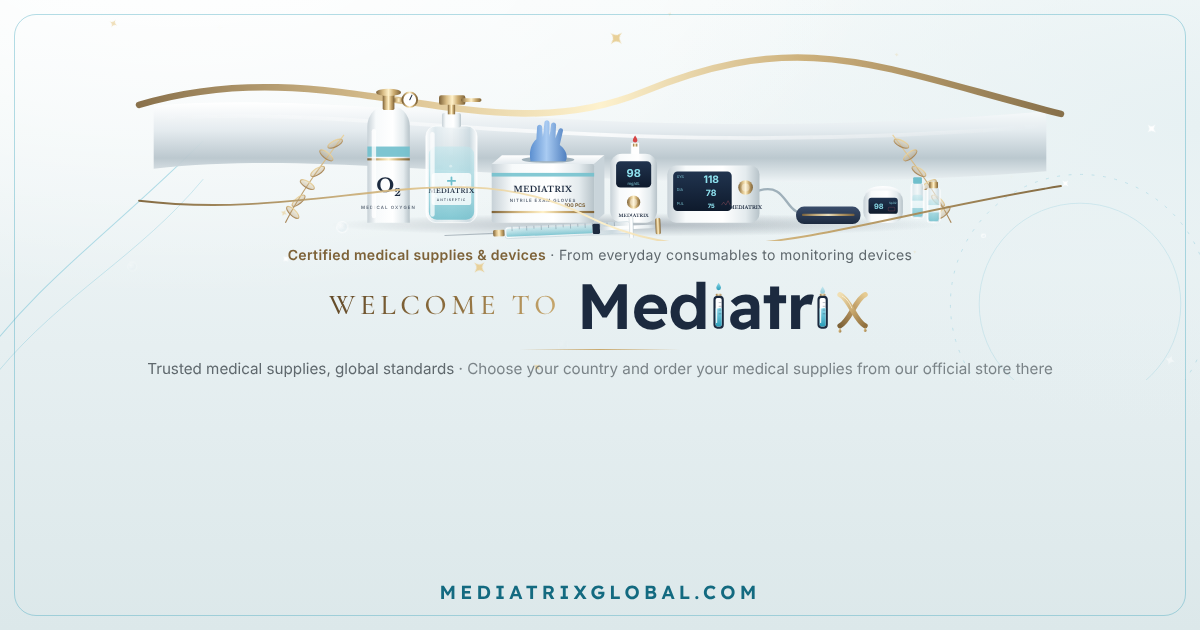
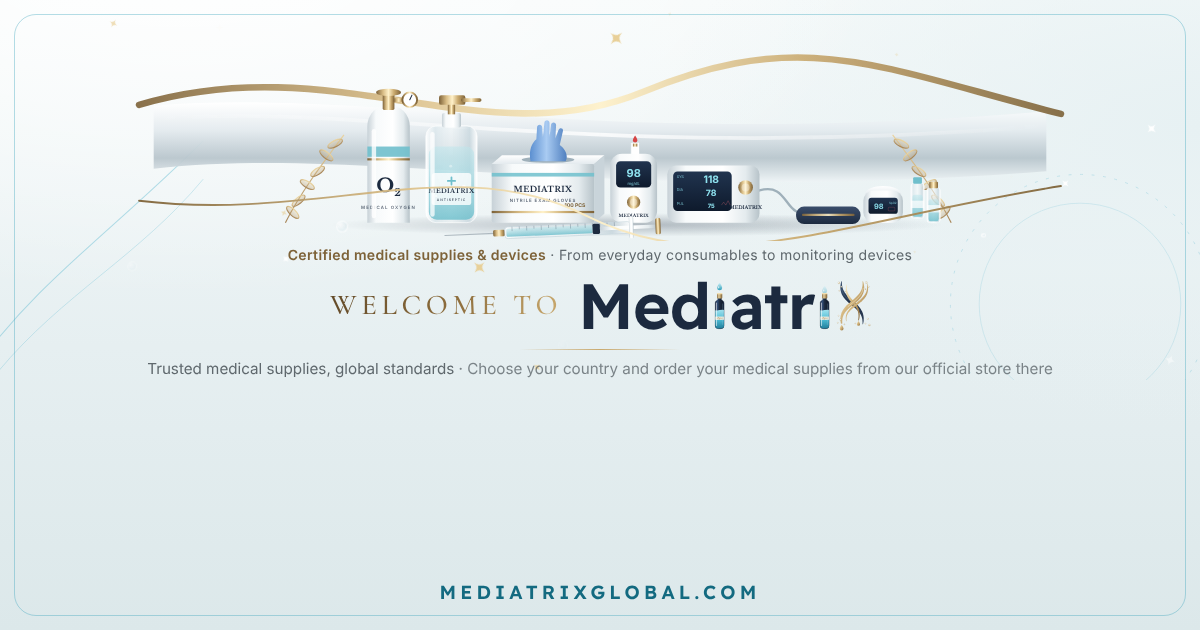
Wordmark: jewellery-style ribbon X (navy + gold S-curves, drops, pearls, light sweep) modelled on the reference; premium navy-glass IV bottle i with crimped gold cap, ECG label and moving fluid
Claude-Session: https://claude.ai/code/session_016o9QNXHEvhKb4pAdzKRwjF

Changed region(s): [[0.4933, 0.4524, 0.74, 0.5429], [0.2775, 0.4524, 0.4008, 0.5127], [0.4317, 0.4524, 0.4625, 0.5127]]

diff --git a/mediatrix/src/components/art/Wordmark.tsx b/mediatrix/src/components/art/Wordmark.tsx
@@ -1,80 +1,129 @@
 // "Mediatrix" wordmark — Readex Pro, deep navy.
-//  - each "i" is a tidy IV bottle drawn on the letter grid (navy outline, aqua fluid, gold cap)
-//    with a falling drop as its dot
-//  - the "x" is two crossing ribbons (gold over silver) with pearls and gold drops,
-//    or a single gold ribbon when `simpleX` is set (small sizes)
+//  - each "i" is a premium IV glass bottle (navy glass, icy fluid, crimped gold cap, ECG label)
+//    whose dot is a drop falling into it
+//  - the "x" is a jewellery-style ribbon cross: a navy ribbon and gold ribbons in tall S-curves,
+//    gold drops at the ends and pearls around (pearls hidden at small sizes)
+
+const BOTTLE = "M11 34.5 h8 v2.2 c0 2.4 5.6 3.2 5.6 8 V93 a7 7 0 0 1 -7 7 h-5.2 a7 7 0 0 1 -7 -7 V44.7 c0 -4.8 5.6 -5.6 5.6 -8 z";
 
 function BottleI({ u, delay = 0 }: { u: string; delay?: number }) {
-  // viewBox: 0..100 tall = cap-height (0.73em); baseline at y=100, x-height at y≈28
   return (
-    <svg viewBox="0 0 30 100" className="inline-block h-[0.73em] w-[0.27em] align-baseline" style={{ marginInline: "0.012em" }} aria-hidden="true">
+    <svg viewBox="0 0 30 100" className="inline-block h-[0.73em] w-[0.27em] overflow-visible align-baseline" style={{ marginInline: "0.012em" }} aria-hidden="true">
       <defs>
-        <linearGradient id={`${u}-f`} x1="0" y1="0" x2="0" y2="1">
-          <stop offset="0" stopColor="#8fd8ea" />
+        <linearGradient id={`${u}-gl`} x1="0" x2="1">
+          <stop offset="0" stopColor="#16233a" />
+          <stop offset="0.22" stopColor="#34507a" />
+          <stop offset="0.5" stopColor="#1c2a3f" />
+          <stop offset="0.85" stopColor="#121c2c" />
+          <stop offset="1" stopColor="#2a3d5a" />
+        </linearGradient>
+        <linearGradient id={`${u}-lq`} x1="0" y1="0" x2="0" y2="1">
+          <stop offset="0" stopColor="#a8ecf7" />
+          <stop offset="0.5" stopColor="#4fc3dc" />
+          <stop offset="1" stopColor="#1f7f9c" />
+        </linearGradient>
+        <linearGradient id={`${u}-cap`} x1="0" x2="1">
+          <stop offset="0" stopColor="#8a6c40" />
+          <stop offset="0.35" stopColor="#f1dfb3" />
+          <stop offset="0.55" stopColor="#d9bd86" />
+          <stop offset="1" stopColor="#7d6238" />
+        </linearGradient>
+        <linearGradient id={`${u}-dr`} x1="0" y1="0" x2="0" y2="1">
+          <stop offset="0" stopColor="#d8f5fb" />
           <stop offset="1" stopColor="#2a9db8" />
         </linearGradient>
-        <linearGradient id={`${u}-c`} x1="0" x2="1">
-          <stop offset="0" stopColor="#9a7a4b" />
-          <stop offset="0.5" stopColor="#f1dfb3" />
-          <stop offset="1" stopColor="#a8875a" />
-        </linearGradient>
+        <clipPath id={`${u}-cl`}>
+          <path d={BOTTLE} />
+        </clipPath>
       </defs>
-      {/* the dot: a drop falling into the bottle */}
-      <path d="M15 1.5 C 11.6 7.2, 10 10, 10 12.4 a5 5 0 0 0 10 0 C 20 10, 18.4 7.2, 15 1.5 Z" fill={`url(#${u}-f)`}>
-        <animateTransform attributeName="transform" type="translate" values="0 0;0 0;0 15;0 15" keyTimes="0;0.62;0.82;1" dur="3.4s" begin={`${delay}s`} repeatCount="indefinite" />
-        <animate attributeName="opacity" values="1;1;0;0;1" keyTimes="0;0.62;0.82;0.92;1" dur="3.4s" begin={`${delay}s`} repeatCount="indefinite" />
-      </path>
-      {/* cap */}
-      <rect x="9" y="25" width="12" height="6" rx="1.6" fill={`url(#${u}-c)`} />
-      {/* bottle = the stem of the i, standing on the baseline */}
-      <rect x="6.2" y="31.8" width="17.6" height="65.9" rx="6" fill="#ffffff" stroke="#1c2a3f" strokeWidth="4.6" />
-      <path fill={`url(#${u}-f)`}>
-        <animate
-          attributeName="d"
-          dur="2.8s"
-          repeatCount="indefinite"
-          values="M8.5 56 Q12 54 15 56 T21.5 56 V91 Q21.5 95.4 17.5 95.4 H12.5 Q8.5 95.4 8.5 91 Z;
-                  M8.5 56 Q12 58 15 56 T21.5 56 V91 Q21.5 95.4 17.5 95.4 H12.5 Q8.5 95.4 8.5 91 Z;
-                  M8.5 56 Q12 54 15 56 T21.5 56 V91 Q21.5 95.4 17.5 95.4 H12.5 Q8.5 95.4 8.5 91 Z"
-        />
-      </path>
-      <g stroke="#1c2a3f" strokeOpacity="0.45" strokeWidth="1.4" strokeLinecap="round">
-        <path d="M16 44h4M16 52h4M16 60h4M16 68h4" />
+      {/* the dot: a drop that falls onto the cap and is absorbed */}
+      <g>
+        <animateTransform attributeName="transform" type="translate" values="0 0;0 0;0 11;0 11" keyTimes="0;0.62;0.8;1" dur="3.4s" begin={`${delay}s`} repeatCount="indefinite" />
+        <animate attributeName="opacity" values="1;1;0;0;1" keyTimes="0;0.62;0.8;0.92;1" dur="3.4s" begin={`${delay}s`} repeatCount="indefinite" />
+        <path d="M15 1 C 11.4 7, 9.7 10, 9.7 12.6 a5.3 5.3 0 0 0 10.6 0 C 20.3 10, 18.6 7, 15 1 Z" fill={`url(#${u}-dr)`} />
+        <ellipse cx="13" cy="11.5" rx="1.3" ry="2.2" fill="#fff" opacity="0.8" />
       </g>
-      <rect x="9.5" y="36" width="2.4" height="52" rx="1.2" fill="#ffffff" opacity="0.9" />
+      <path d={BOTTLE} fill={`url(#${u}-gl)`} />
+      <g clipPath={`url(#${u}-cl)`}>
+        <path fill={`url(#${u}-lq)`} opacity="0.95">
+          <animate attributeName="d" dur="2.8s" repeatCount="indefinite" values="M4 60 Q 9.5 57.6 15 60 T 26 60 V101 H4 Z;M4 60 Q 9.5 62.4 15 60 T 26 60 V101 H4 Z;M4 60 Q 9.5 57.6 15 60 T 26 60 V101 H4 Z" />
+        </path>
+        <rect x="4" y="74" width="22" height="7" fill="#f6efe0" opacity="0.96" />
+        <path d="M8 77.6 h3.2 l1.2 -2.2 l1.8 4.6 l1.4 -3.6 l.9 1.2 h5" fill="none" stroke="#a8875a" strokeWidth="0.9" strokeLinejoin="round" />
+        <rect x="7.1" y="44" width="2.3" height="50" rx="1.15" fill="#fff" opacity="0.55" />
+        <rect x="21.2" y="46" width="0.9" height="46" rx="0.45" fill="#9fd0e3" opacity="0.5" />
+      </g>
+      <path d={BOTTLE} fill="none" stroke="#0e1828" strokeOpacity="0.6" strokeWidth="0.7" />
+      <rect x="9.4" y="25" width="11.2" height="10.2" rx="1.6" fill={`url(#${u}-cap)`} />
+      <path d="M11.4 26.4v7.4M13.4 26.4v7.4M15.4 26.4v7.4M17.4 26.4v7.4M19.2 26.4v7.4" stroke="#7d6238" strokeOpacity="0.55" strokeWidth="0.6" />
+      <rect x="9" y="23.4" width="12" height="2.6" rx="1.3" fill="#f1dfb3" />
     </svg>
   );
 }
 
-/** The "x": two gold ribbon strokes with a gentle S-curve crossing at the centre, a drop at each lower end. */
-function RibbonX({ u }: { u: string; simple?: boolean }) {
-  const a = "M16 8 C 42 20, 58 80, 84 92";
-  const b = "M84 8 C 58 20, 42 80, 16 92";
+const X_NAVY = "M12.4 3.9 L11.6 6.4 L10.9 9.0 L10.5 11.4 L10.1 13.8 L9.9 16.2 L9.7 18.5 L9.7 20.8 L9.8 23.1 L10.1 25.3 L10.4 27.4 L10.9 29.5 L11.4 31.6 L12.0 33.6 L12.8 35.6 L13.6 37.5 L14.5 39.4 L15.5 41.2 L16.6 43.0 L17.7 44.7 L18.9 46.3 L20.2 47.9 L21.5 49.5 L22.8 51.0 L24.2 52.5 L25.7 53.9 L27.1 55.3 L28.6 56.7 L30.1 58.0 L31.6 59.3 L33.1 60.6 L34.6 61.9 L36.1 63.1 L37.6 64.3 L39.1 65.6 L40.6 66.8 L42.1 68.0 L43.6 69.2 L45.0 70.4 L46.5 71.6 L47.8 72.8 L49.2 74.0 L50.5 75.2 L51.8 76.5 L53.1 77.8 L54.3 79.1 L55.5 80.4 L56.7 81.7 L57.7 83.1 L58.8 84.5 L59.8 86.0 L60.7 87.5 L61.6 89.1 L62.4 90.7 L63.2 92.4 L63.9 94.1 L64.5 96.0 L65.1 97.9 L65.5 99.9 L65.9 102.0 L66.2 104.2 L66.4 106.5 L66.5 108.8 L66.5 111.3 L66.5 113.9 L67.5 114.1 L68.2 111.5 L68.7 109.0 L69.1 106.5 L69.3 104.1 L69.4 101.8 L69.5 99.5 L69.4 97.2 L69.2 95.0 L68.9 92.9 L68.5 90.7 L68.0 88.7 L67.4 86.6 L66.7 84.7 L65.9 82.7 L65.1 80.9 L64.2 79.0 L63.2 77.2 L62.1 75.5 L61.0 73.8 L59.8 72.1 L58.6 70.5 L57.3 69.0 L56.0 67.4 L54.6 65.9 L53.2 64.4 L51.8 63.0 L50.4 61.6 L49.0 60.2 L47.5 58.9 L46.0 57.5 L44.6 56.2 L43.1 54.9 L41.7 53.6 L40.2 52.3 L38.8 51.1 L37.4 49.8 L36.0 48.5 L34.6 47.3 L33.2 46.0 L31.9 44.8 L30.6 43.5 L29.3 42.3 L28.1 41.0 L26.9 39.8 L25.7 38.5 L24.6 37.2 L23.5 35.8 L22.4 34.5 L21.4 33.1 L20.5 31.7 L19.5 30.2 L18.7 28.7 L17.9 27.1 L17.1 25.5 L16.4 23.7 L15.8 21.9 L15.2 20.1 L14.7 18.1 L14.3 16.0 L14.0 13.9 L13.8 11.6 L13.7 9.2 L13.6 6.7 L13.6 4.1 Z";
+const X_NAVY_HI = "M13.5 25.7 L14.2 28.0 L15.1 30.2 L16.0 32.3 L17.0 34.4 L18.2 36.4 L19.4 38.4 L20.7 40.2 L22.1 42.1 L23.6 43.8 L25.1 45.6 L26.7 47.3 L28.3 48.9 L30.0 50.5 L31.7 52.1 L33.5 53.7 L35.3 55.3 L37.1 56.8 L38.9 58.4 L40.7 59.9 L42.5 61.4 L44.3 63.0 L46.1 64.5 L47.8 66.1 L49.5 67.7 L51.2 69.4 L52.9 71.0 L54.5 72.7 L56.0 74.4 L57.5 76.2 L58.9 78.1";
+const X_GOLD_THIN = "M25.6 11.9 L25.0 14.0 L24.5 16.1 L24.1 18.1 L23.8 20.0 L23.6 21.9 L23.5 23.8 L23.4 25.6 L23.5 27.4 L23.6 29.1 L23.7 30.8 L24.0 32.4 L24.3 34.0 L24.7 35.6 L25.1 37.2 L25.6 38.6 L26.1 40.1 L26.7 41.5 L27.4 42.9 L28.1 44.2 L28.8 45.6 L29.6 46.8 L30.4 48.1 L31.2 49.3 L32.1 50.5 L33.0 51.6 L33.9 52.8 L34.8 53.9 L35.7 55.0 L36.7 56.1 L37.6 57.1 L38.6 58.2 L39.5 59.2 L40.5 60.3 L41.4 61.3 L42.4 62.3 L43.3 63.3 L44.2 64.4 L45.1 65.4 L45.9 66.5 L46.8 67.5 L47.6 68.6 L48.4 69.7 L49.2 70.8 L49.9 71.9 L50.6 73.1 L51.3 74.3 L52.0 75.5 L52.6 76.7 L53.2 78.0 L53.7 79.3 L54.2 80.7 L54.6 82.1 L55.0 83.5 L55.3 85.1 L55.6 86.6 L55.8 88.3 L56.0 90.0 L56.1 91.7 L56.1 93.5 L56.1 95.4 L55.9 97.4 L55.7 99.5 L55.5 101.6 L55.1 103.8 L56.9 104.2 L57.5 102.0 L58.0 99.8 L58.4 97.7 L58.7 95.7 L58.9 93.7 L59.1 91.8 L59.2 89.9 L59.2 88.0 L59.1 86.3 L59.0 84.5 L58.8 82.8 L58.5 81.2 L58.2 79.6 L57.8 78.0 L57.3 76.5 L56.8 75.0 L56.2 73.5 L55.6 72.1 L55.0 70.7 L54.3 69.4 L53.5 68.1 L52.8 66.8 L52.0 65.5 L51.2 64.3 L50.3 63.1 L49.4 61.9 L48.5 60.8 L47.6 59.7 L46.7 58.5 L45.8 57.4 L44.9 56.4 L44.0 55.3 L43.0 54.2 L42.1 53.2 L41.2 52.1 L40.3 51.1 L39.4 50.0 L38.5 49.0 L37.6 47.9 L36.8 46.9 L35.9 45.8 L35.1 44.7 L34.3 43.6 L33.6 42.5 L32.8 41.4 L32.1 40.3 L31.4 39.1 L30.7 38.0 L30.1 36.7 L29.5 35.5 L29.0 34.2 L28.5 32.9 L28.0 31.5 L27.6 30.0 L27.2 28.6 L26.8 27.0 L26.6 25.4 L26.3 23.7 L26.2 22.0 L26.1 20.1 L26.1 18.2 L26.1 16.3 L26.3 14.2 L26.4 12.1 Z";
+const X_GOLD_OUT = "M77.6 9.1 L77.9 11.6 L78.1 13.9 L78.2 16.2 L78.2 18.4 L78.1 20.5 L77.9 22.5 L77.7 24.5 L77.3 26.3 L76.8 28.1 L76.3 29.9 L75.7 31.5 L75.0 33.1 L74.2 34.7 L73.4 36.2 L72.6 37.7 L71.6 39.1 L70.7 40.5 L69.6 41.8 L68.5 43.1 L67.4 44.4 L66.2 45.7 L65.0 46.9 L63.8 48.2 L62.5 49.4 L61.2 50.6 L59.8 51.8 L58.5 52.9 L57.1 54.1 L55.7 55.2 L54.2 56.4 L52.8 57.5 L51.3 58.7 L49.9 59.8 L48.4 61.0 L46.9 62.1 L45.5 63.3 L44.1 64.5 L42.6 65.7 L41.2 66.8 L39.8 68.0 L38.5 69.3 L37.1 70.5 L35.8 71.8 L34.6 73.1 L33.4 74.4 L32.2 75.7 L31.1 77.1 L30.0 78.5 L29.0 79.9 L28.1 81.4 L27.3 82.9 L26.5 84.5 L25.8 86.0 L25.2 87.7 L24.6 89.3 L24.2 91.0 L23.9 92.8 L23.7 94.5 L23.5 96.4 L23.5 98.2 L23.6 100.1 L23.8 102.1 L24.1 104.0 L24.6 106.1 L25.4 105.9 L25.2 103.9 L25.2 102.0 L25.2 100.1 L25.3 98.3 L25.5 96.5 L25.8 94.9 L26.2 93.3 L26.7 91.7 L27.3 90.2 L27.9 88.8 L28.6 87.4 L29.4 86.0 L30.3 84.7 L31.2 83.4 L32.1 82.2 L33.2 81.0 L34.2 79.8 L35.4 78.6 L36.5 77.4 L37.7 76.3 L39.0 75.2 L40.3 74.0 L41.6 72.9 L43.0 71.8 L44.4 70.8 L45.8 69.7 L47.3 68.6 L48.7 67.5 L50.2 66.4 L51.7 65.3 L53.2 64.2 L54.7 63.1 L56.2 61.9 L57.7 60.8 L59.1 59.6 L60.6 58.4 L62.1 57.2 L63.5 56.0 L64.9 54.7 L66.3 53.4 L67.6 52.1 L68.9 50.7 L70.2 49.3 L71.4 47.8 L72.6 46.3 L73.7 44.8 L74.7 43.2 L75.7 41.6 L76.6 39.9 L77.4 38.2 L78.1 36.4 L78.8 34.6 L79.3 32.7 L79.8 30.8 L80.1 28.8 L80.4 26.8 L80.6 24.8 L80.6 22.7 L80.5 20.5 L80.4 18.3 L80.1 16.0 L79.6 13.7 L79.1 11.3 L78.4 8.9 Z";
+const X_GOLD = "M66.4 4.1 L66.5 6.8 L66.6 9.2 L66.5 11.6 L66.4 13.9 L66.2 16.1 L65.8 18.2 L65.4 20.1 L64.9 22.0 L64.3 23.8 L63.7 25.6 L63.0 27.2 L62.2 28.8 L61.4 30.3 L60.5 31.8 L59.6 33.2 L58.6 34.6 L57.5 35.9 L56.5 37.3 L55.4 38.6 L54.2 39.8 L53.0 41.1 L51.8 42.4 L50.5 43.6 L49.2 44.8 L47.9 46.1 L46.5 47.3 L45.1 48.5 L43.7 49.8 L42.3 51.0 L40.8 52.2 L39.3 53.5 L37.8 54.8 L36.3 56.0 L34.9 57.3 L33.4 58.6 L31.9 59.9 L30.4 61.2 L28.9 62.6 L27.5 64.0 L26.0 65.4 L24.6 66.8 L23.3 68.3 L21.9 69.8 L20.6 71.4 L19.4 72.9 L18.2 74.6 L17.1 76.3 L16.0 78.0 L15.0 79.7 L14.1 81.6 L13.2 83.4 L12.4 85.3 L11.8 87.3 L11.2 89.3 L10.7 91.4 L10.3 93.5 L10.0 95.7 L9.9 97.9 L9.8 100.1 L9.9 102.5 L10.0 104.8 L10.3 107.3 L10.8 109.7 L11.3 112.3 L14.7 111.7 L14.5 109.3 L14.5 106.9 L14.5 104.7 L14.7 102.5 L14.9 100.5 L15.2 98.5 L15.7 96.6 L16.2 94.8 L16.7 93.1 L17.4 91.4 L18.1 89.8 L18.9 88.2 L19.8 86.7 L20.7 85.3 L21.6 83.8 L22.7 82.5 L23.7 81.1 L24.9 79.8 L26.0 78.5 L27.3 77.2 L28.5 76.0 L29.8 74.8 L31.2 73.5 L32.5 72.3 L34.0 71.1 L35.4 69.9 L36.9 68.8 L38.3 67.6 L39.8 66.4 L41.4 65.2 L42.9 64.0 L44.4 62.7 L45.9 61.5 L47.5 60.3 L49.0 59.0 L50.5 57.7 L52.0 56.4 L53.5 55.1 L55.0 53.7 L56.4 52.3 L57.8 50.8 L59.2 49.3 L60.5 47.7 L61.8 46.1 L63.0 44.5 L64.1 42.8 L65.2 41.0 L66.1 39.2 L67.0 37.4 L67.9 35.4 L68.6 33.5 L69.2 31.5 L69.7 29.4 L70.1 27.3 L70.4 25.2 L70.6 23.0 L70.7 20.7 L70.6 18.5 L70.4 16.1 L70.1 13.8 L69.7 11.4 L69.2 8.9 L68.5 6.4 L67.6 3.9 Z";
+const X_GOLD_HI = "M67.9 21.9 L67.5 24.0 L67.0 26.1 L66.4 28.1 L65.7 30.0 L65.0 31.9 L64.1 33.8 L63.2 35.5 L62.1 37.2 L61.1 38.9 L59.9 40.5 L58.7 42.1 L57.4 43.7 L56.1 45.2 L54.7 46.7 L53.3 48.1 L51.8 49.5 L50.3 50.9 L48.7 52.3 L47.2 53.7 L45.6 55.0 L44.0 56.4 L42.4 57.7 L40.8 59.0 L39.2 60.3 L37.6 61.7 L36.0 63.0 L34.4 64.3 L32.8 65.7 L31.3 67.1 L29.7 68.4";
+const PEARLS: [number, number, number][] = [[6,8,2.6],[12,18,1.9],[7,28,1.4],[22,30,1.2],[76,7,2.6],[82,18,1.8],[74,24,1.4],[5,92,1.6],[10,102,2.3],[3,110,1.4],[20,114,1.5],[80,100,2],[74,112,1.6],[84,116,2.4],[48,112,1.3]];
+const DROPS: [number, number, number, number][] = [[13, 115, 1, 0], [56, 107, 0.85, 1.2]];
+
+function RibbonX({ u, simple = false }: { u: string; simple?: boolean }) {
   return (
-    <svg viewBox="0 0 100 100" className="inline-block h-[0.6em] w-[0.58em] overflow-visible align-baseline" style={{ marginInlineStart: "0.03em" }} aria-hidden="true">
+    <svg viewBox="-4 -4 90 130" className="inline-block h-[0.8em] w-[0.55em] overflow-visible align-baseline" style={{ marginInlineStart: "0.02em", marginBottom: "-0.06em" }} aria-hidden="true">
       <defs>
         <linearGradient id={`${u}-g`} x1="0" y1="0" x2="1" y2="1">
-          <stop offset="0" stopColor="#f1dfb3" />
-          <stop offset="0.5" stopColor="#c9a96e" />
-          <stop offset="1" stopColor="#8f6f3e" />
-        </linearGradient>
-        <linearGradient id={`${u}-g2`} x1="1" y1="0" x2="0" y2="1">
-          <stop offset="0" stopColor="#e6cc93" />
-          <stop offset="0.5" stopColor="#b8955f" />
+          <stop offset="0" stopColor="#f6e7c1" />
+          <stop offset="0.4" stopColor="#d9bd86" />
+          <stop offset="0.75" stopColor="#b08e58" />
           <stop offset="1" stopColor="#7d6238" />
         </linearGradient>
+        <linearGradient id={`${u}-n`} x1="0" y1="0" x2="1" y2="1">
+          <stop offset="0" stopColor="#3a5272" />
+          <stop offset="0.5" stopColor="#1c2a3f" />
+          <stop offset="1" stopColor="#2b3d57" />
+        </linearGradient>
+        <radialGradient id={`${u}-p`} cx="0.35" cy="0.35">
+          <stop offset="0" stopColor="#ffffff" />
+          <stop offset="0.6" stopColor="#f3ead6" />
+          <stop offset="1" stopColor="#cdb98f" />
+        </radialGradient>
+        <linearGradient id={`${u}-sh`} x1="0" x2="1">
+          <stop offset="0" stopColor="#fff" stopOpacity="0" />
+          <stop offset="0.5" stopColor="#fff" stopOpacity="0.75" />
+          <stop offset="1" stopColor="#fff" stopOpacity="0" />
+        </linearGradient>
+        <clipPath id={`${u}-c`}>
+          <path d={X_GOLD} />
+          <path d={X_GOLD_OUT} />
+          <path d={X_GOLD_THIN} />
+        </clipPath>
       </defs>
-      <path d={b} fill="none" stroke={`url(#${u}-g2)`} strokeWidth="14" strokeLinecap="round" />
-      <path d={a} fill="none" stroke={`url(#${u}-g)`} strokeWidth="14" strokeLinecap="round" />
-      <path d="M22 12 C 36 19, 44 34, 48 44" fill="none" stroke="#fff6dc" strokeOpacity="0.85" strokeWidth="2.4" strokeLinecap="round" />
-      {[
-        [16, 0],
-        [84, 1.2],
-      ].map(([x, d], i) => (
-        <path key={i} d={`M${x} 96 c-2.6 4.4 -4 6.6 -4 8.4 a4 4 0 0 0 8 0 c0 -1.8 -1.4 -4 -4 -8.4 z`} fill={`url(#${u}-g)`}>
+      <path d={X_NAVY} fill={`url(#${u}-n)`} />
+      <path d={X_NAVY_HI} fill="none" stroke="#7f9bb8" strokeOpacity="0.55" strokeWidth="1.2" strokeLinecap="round" />
+      <path d={X_GOLD_THIN} fill={`url(#${u}-g)`} />
+      {!simple && <path d={X_GOLD_OUT} fill={`url(#${u}-g)`} />}
+      <path d={X_GOLD} fill={`url(#${u}-g)`} />
+      <path d={X_GOLD_HI} fill="none" stroke="#fff6dc" strokeOpacity="0.9" strokeWidth="1.3" strokeLinecap="round" />
+      {/* light sweep across the gold */}
+      <g clipPath={`url(#${u}-c)`}>
+        <rect x="-60" y="-10" width="26" height="150" fill={`url(#${u}-sh)`} transform="skewX(-20)">
+          <animate attributeName="x" values="-60;120;120" keyTimes="0;0.45;1" dur="5.5s" repeatCount="indefinite" />
+        </rect>
+      </g>
+      {DROPS.map(([px, py, s, d], i) => (
+        <path key={i} d={`M${px} ${py - 2} c-${3 * s} ${5 * s} -${4.8 * s} ${7.6 * s} -${4.8 * s} ${9.8 * s} a${4.8 * s} ${4.8 * s} 0 0 0 ${9.6 * s} 0 c0 -${2.2 * s} -${1.8 * s} -${4.8 * s} -${4.8 * s} -${9.8 * s} z`} fill={`url(#${u}-g)`}>
           <animateTransform attributeName="transform" type="translate" values="0 0;0 2.2;0 0" dur="2.6s" begin={`${d}s`} repeatCount="indefinite" />
         </path>
       ))}
+      {!simple &&
+        PEARLS.map(([cx, cy, r], i) => (
+          <circle key={i} cx={cx} cy={cy} r={r} fill={`url(#${u}-p)`} stroke="#b9a072" strokeWidth="0.5">
+            <animate attributeName="opacity" values="0.65;1;0.65" dur={`${2.2 + (i % 4) * 0.4}s`} repeatCount="indefinite" />
+          </circle>
+        ))}
     </svg>
   );
 }

diff --git a/mediatrix/ops/BACKUPS.md b/mediatrix/ops/BACKUPS.md
@@ -15,3 +15,4 @@
 |---|---|---|---|
 | 2026-11-21 01:10 | قبل: شعار النبض + زجاجة i + شرائط X + حركة الدول | `a33e5b6` | `309016ec-69f7-4a3b-bd91-d1b98ddc23aa` |
 | 2026-11-21 01:33 | بعد: شعار النبض + زجاجة i + شرائط X + حركة الدول + النسخ الاحتياطية | (هذا الـ commit) | `156dbcf8-76b0-4f65-917f-6e319e4bdbab` |
+| 2026-11-21 01:40 | X بشرائط ذهبية وكحلية (قريب من الصورة) + زجاجة i احترافية | (بعد `2b13bd9`) | `af5bc62c-f6ee-4bac-833d-d54d9bea9786` |
